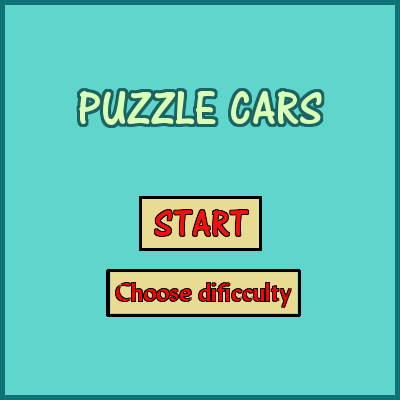
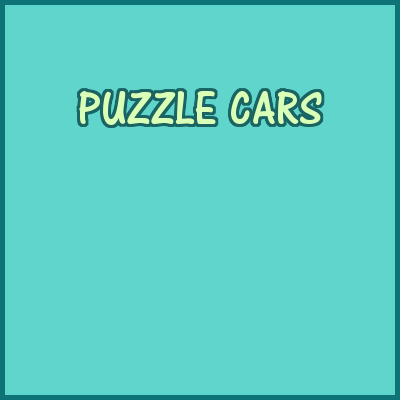
menu de inicio añadido

Changed region(s): [[0.24, 0.66, 0.75, 0.81], [0.33, 0.48, 0.66, 0.63]]

diff --git a/src/Pantallas/Menu.java b/src/Pantallas/Menu.java
@@ -1,0 +1,61 @@
+package Pantallas;
+
+import java.awt.BorderLayout;
+import java.awt.EventQueue;
+import java.awt.Image;
+
+import javax.swing.ImageIcon;
+import javax.swing.JFrame;
+import javax.swing.JPanel;
+import javax.swing.border.EmptyBorder;
+import javax.swing.JLabel;
+import javax.swing.JButton;
+
+public class Menu extends JFrame {
+
+	private JPanel contentPane;
+
+	/**
+	 * Launch the application.
+	 */
+	public static void main(String[] args) {
+		EventQueue.invokeLater(new Runnable() {
+			public void run() {
+				try {
+					Menu frame = new Menu();
+					frame.setVisible(true);
+				} catch (Exception e) {
+					e.printStackTrace();
+				}
+			}
+		});
+	}
+
+	/**
+	 * Create the frame.
+	 */
+	public Menu() {
+		setDefaultCloseOperation(JFrame.EXIT_ON_CLOSE);
+		setBounds(100, 100, 433, 457);
+		contentPane = new JPanel();
+		contentPane.setBorder(new EmptyBorder(5, 5, 5, 5));
+		setContentPane(contentPane);
+		
+		JLabel lblFondo = new JLabel("");
+		lblFondo.setBounds(5, 5, 405, 400);
+		Image img = new ImageIcon(this.getClass().getResource("/Menu_juego.png")).getImage();
+		contentPane.setLayout(null);
+		
+		JButton Start = new JButton("");
+		Image imgStart = new ImageIcon(this.getClass().getResource("/Menu_juego_boton1.png")).getImage();
+		Start.setIcon(new ImageIcon(imgStart));
+		Start.setBounds(144, 164, 123, 55);
+		contentPane.add(Start);
+		lblFondo.setIcon(new ImageIcon(img));
+		contentPane.add(lblFondo);
+		Image img1 = new ImageIcon(this.getClass().getResource("/Menu_juego_boton1.png")).getImage();
+		Image img2 = new ImageIcon(this.getClass().getResource("/Menu_juego_boton2.png")).getImage();
+		
+		
+	}
+}

diff --git a/src/Pantallas/Difficulty.java b/src/Pantallas/Difficulty.java
@@ -87,7 +87,7 @@ public class Difficulty extends JFrame {
 		Image img1 = new ImageIcon(this.getClass().getResource("/Screen_3_boton1.png")).getImage();		
 		btnNewButton.setIcon(new ImageIcon(img1));
 		
-		Image img2 = new ImageIcon(this.getClass().getResource("/Screen_3_boton2.png")).getImage();		
+		Image img2 = new ImageIcon(this.getClass().getResource("/Screen_3_boton1.png")).getImage();		
 		btnNewButton_1.setIcon(new ImageIcon(img2));
 		
 		Image img3 = new ImageIcon(this.getClass().getResource("/Screen_3_boton3.png")).getImage();		
